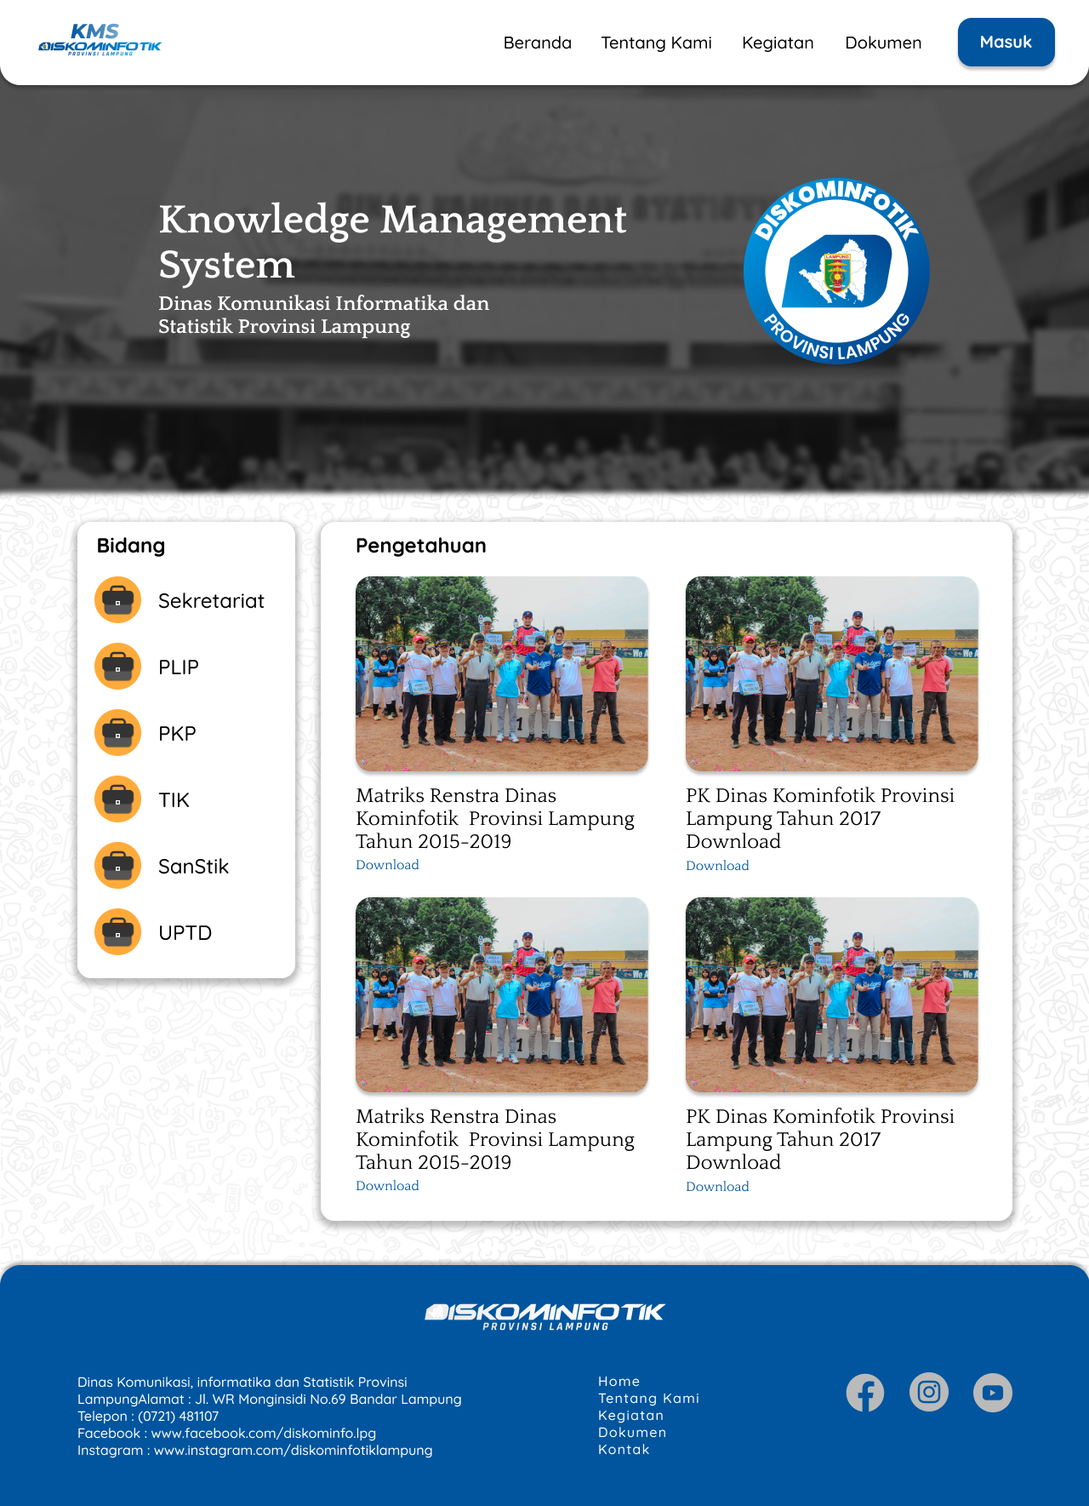
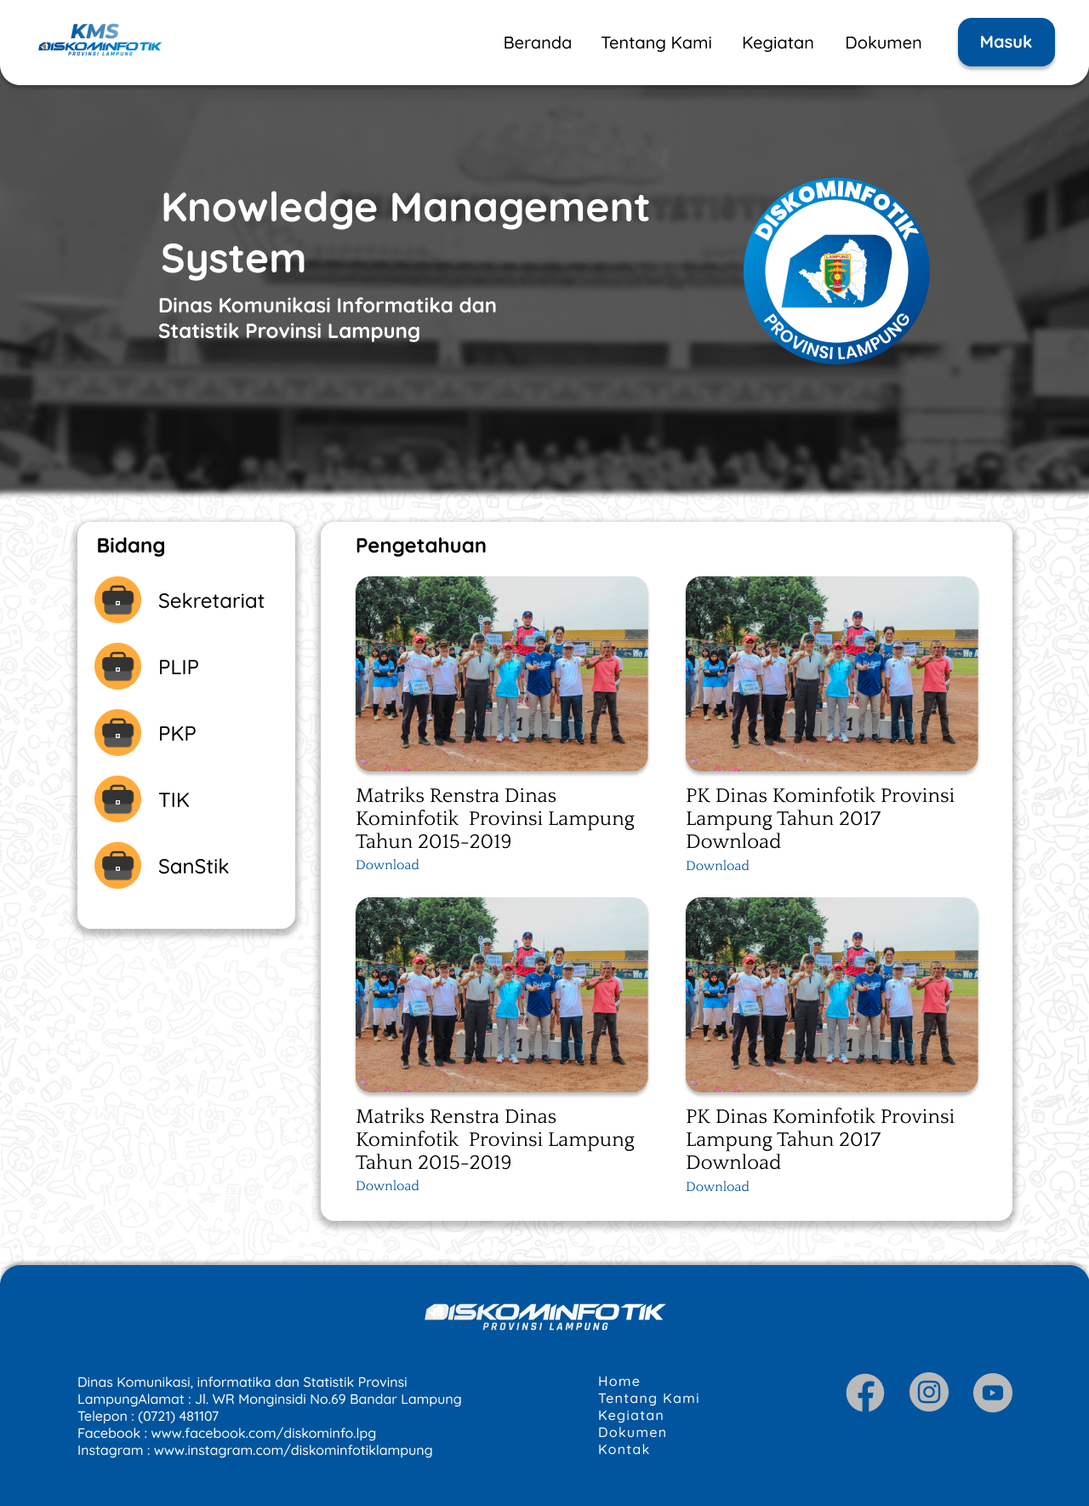
halaman tentang kami sementara (sesuai figma)

Changed region(s): [[0.125, 0.1244, 0.5938, 0.2487], [0.0625, 0.5907, 0.2812, 0.6529]]

diff --git a/resources/views/about.blade.php b/resources/views/about.blade.php
@@ -1,0 +1,170 @@
+<!DOCTYPE html>
+<html lang="id">
+<head>
+    <meta charset="utf-8">
+    <meta name="viewport" content="width=device-width, initial-scale=1">
+    <title>Tentang Kami - KMS Diskominfotik Lampung</title>
+    <link rel="preconnect" href="https://fonts.bunny.net">
+    <link href="https://fonts.bunny.net/css?family=figtree:400,600&display=swap" rel="stylesheet" />
+    @vite(['resources/css/app.css', 'resources/js/app.js'])
+</head>
+<body class="bg-[#f8fafc] font-figtree">
+
+    {{-- HEADER --}}
+    <header class="bg-white shadow-sm sticky top-0 z-20">
+        <div class="max-w-[1400px] mx-auto flex items-center justify-between px-6 py-3">
+            <div class="flex items-center gap-2">
+                <img src="{{ asset('assets/img/KMS_Diskominfotik.png') }}" alt="KMS DISKOMINFOTIK" class="h-7">
+            </div>
+            <nav class="flex gap-8">
+                <a href="{{ url('/') }}" class="text-black/90 text-sm hover:font-bold hover:text-blue-900 transition">Beranda</a>
+                <a href="{{ route('about') }}" class="text-blue-900 text-sm font-bold">Tentang Kami</a>
+                <a href="#" class="text-black/90 text-sm hover:font-bold hover:text-blue-900 transition">Kegiatan</a>
+                <a href="#" class="text-black/90 text-sm hover:font-bold hover:text-blue-900 transition">Dokumen</a>
+            </nav>
+            <a href="{{ route('login') }}"
+               class="bg-blue-900 text-white text-sm font-semibold px-6 py-2 rounded-xl shadow hover:bg-blue-700 transition">Masuk</a>
+        </div>
+    </header>
+
+    {{-- HERO SECTION --}}
+    <section class="relative min-h-[320px] flex items-center" style="background: url('{{ asset('assets/img/Background-line-landing-page.png') }}') center/cover no-repeat;">
+        <div class="absolute inset-0 bg-black/60"></div>
+        <div class="max-w-[900px] mx-auto w-full relative z-10 text-center flex flex-col items-center">
+            <h1 class="text-4xl md:text-5xl font-bold text-white drop-shadow mt-16 mb-3">Tentang Kami</h1>
+            <div class="bg-white/90 rounded-lg shadow-lg px-6 py-4 text-black text-base font-medium w-full max-w-3xl">
+                Dinas Komunikasi, Informatika dan Statistik Pemerintah Provinsi Lampung merupakan penyelenggara urusan pemerintahan dan mempunyai tugas di bidang Komunikasi dan Informatika, Statistik dan Persandian. Dinas Komunikasi, Informatika dan Statistik Pemerintah Provinsi Lampung dipimpin oleh seorang Kepala Dinas yang berkedudukan di bawah dan bertanggung jawab kepada Gubernur melalui Sekretaris Daerah.
+            </div>
+        </div>
+    </section>
+
+    {{-- VISI & MISI --}}
+    <section class="max-w-5xl mx-auto mt-12 flex flex-col md:flex-row gap-8 px-4">
+        <div class="md:w-2/5 flex items-center justify-center">
+            <img src="{{ asset('assets/img/visi_misi.png') }}"
+                 alt="Kantor Dinas Kominfotik"
+                 class="rounded-2xl shadow-lg w-[260px] md:w-[300px] h-auto object-contain" />
+        </div>
+        <div class="md:w-3/5 flex flex-col justify-center">
+            <h2 class="font-bold text-lg mb-1">Visi</h2>
+            <p class="mb-3 text-sm md:text-base">Terwujudnya Pusat Informasi Dan Komunikasi Untuk Menunjang Pembangunan Daerah Menuju Lampung Unggul Dan Berdaya Saing</p>
+            <h2 class="font-bold text-lg mb-1 mt-4">Misi</h2>
+            <ol class="list-decimal pl-5 space-y-1 text-sm md:text-base">
+                <li>Meningkatkan Daya Dukung Infrastruktur Teknologi Komunikasi dan Informasi untuk Memperluas Akses Masyarakat terhadap Informasi Pembangunan Daerah.</li>
+                <li>Meningkatkan Kompetensi Sumber Daya Manusia bidang Komunikasi dan Informatika secara Profesional.</li>
+                <li>Meningkatkan Kualitas Layanan Komunikasi dan Informasi kepada Masyarakat dalam rangka Mewujudkan Masyarakat Berbudaya Informasi</li>
+            </ol>
+        </div>
+    </section>
+
+    {{-- TUGAS & FUNGSI --}}
+    <section class="max-w-5xl mx-auto grid grid-cols-1 md:grid-cols-2 gap-8 my-12 px-4">
+        <div class="bg-white rounded-2xl shadow-lg p-6">
+            <h2 class="text-lg font-bold mb-2 text-[#254759]">Tugas</h2>
+            <p class="text-sm leading-relaxed">
+                Berdasarkan Peraturan Gubernur Nomor 59 Tahun 2021 tentang Susunan Organisasi, Tugas dan Fungsi Serta Takerja Perangkat Daerah, Dinas Komunikasi, Informatika dan Statistik mempunyai tugas membantu Gubernur melaksanakan Urusan Pemerintahan di bidang Komunikasi, Informatika, bidang Persandian dan bidang Statistik berdasarkan asas otonomi yang menjadi kewenangan, tugas dekonsentrasi dan tugas pembantuan serta tugas lain sesuai dengan kebijakan yang ditetapkan oleh Gubernur berdasarkan peraturan perundang-undangan.
+            </p>
+        </div>
+        <div class="bg-white rounded-2xl shadow-lg p-6">
+            <h2 class="text-lg font-bold mb-2 text-[#254759]">Fungsi</h2>
+            <p class="text-sm leading-relaxed">
+                Berdasarkan Peraturan Gubernur Nomor 59 Tahun 2021 tentang Susunan Organisasi, Tugas dan Fungsi Serta Takerja Perangkat Daerah, Dinas Komunikasi, Informatika dan Statistik mempunyai fungsi:
+                <br>a. perumusan kebijakan di bidang Komunikasi, Informatika, Persandian dan Statistik;
+                <br>b. pelaksanaan kebijakan di bidang Komunikasi, Informatika, Persandian dan Statistik;
+                <br>c. pelaksanaan evaluasi dan pelaporan di bidang Komunikasi, Informatika, Persandian dan Statistik;
+                <br>d. pelaksanaan administrasi di bidang Komunikasi, Informatika, Persandian dan Statistik; dan
+                <br>e. pelaksanaan fungsi lain yang diberikan oleh Gubernur.
+            </p>
+        </div>
+    </section>
+
+    {{-- BIDANG --}}
+    <section class="w-full bg-[#254759] bg-opacity-95 py-12 relative" style="background: url('{{ asset('assets/img/Background-line-landing-page.png') }}') center/cover no-repeat;">
+        <div class="max-w-6xl mx-auto text-center relative z-10">
+            <h2 class="font-bold text-xl text-white mb-8 tracking-wide">BIDANG</h2>
+            <div class="grid grid-cols-2 md:grid-cols-5 gap-6 justify-items-center">
+                <div class="flex flex-col items-center">
+                    <div class="bg-pink-500/90 rounded-full p-5 shadow mb-2">
+                        {{-- Icon Bullhorn --}}
+                        <svg class="w-8 h-8 text-white" fill="none" stroke="currentColor" stroke-width="2" viewBox="0 0 24 24"><path fill="white" d="M6.5 7.5V5a2 2 0 0 1 2-2h7a2 2 0 0 1 2 2v14a2 2 0 0 1-2 2h-7a2 2 0 0 1-2-2v-2.5"/><path stroke="white" d="M6.5 17.5V5a2 2 0 0 1 2-2h7a2 2 0 0 1 2 2v14a2 2 0 0 1-2 2h-7a2 2 0 0 1-2-2v-2.5"/></svg>
+                    </div>
+                    <p class="text-white text-xs font-semibold">Pengelolaan dan<br>Layanan Informasi Publik</p>
+                </div>
+                <div class="flex flex-col items-center">
+                    <div class="bg-orange-400 rounded-full p-5 shadow mb-2">
+                        {{-- Icon Shield --}}
+                        <svg class="w-8 h-8 text-white" fill="none" stroke="currentColor" stroke-width="2" viewBox="0 0 24 24"><path fill="white" d="M12 2l7 5v6.5c0 5.5-5 8.5-7 9-2-0.5-7-3.5-7-9V7l7-5z"/></svg>
+                    </div>
+                    <p class="text-white text-xs font-semibold">Persandian dan<br>Statistik</p>
+                </div>
+                <div class="flex flex-col items-center">
+                    <div class="bg-blue-500 rounded-full p-5 shadow mb-2">
+                        {{-- Icon Globe --}}
+                        <svg class="w-8 h-8 text-white" fill="none" stroke="currentColor" stroke-width="2" viewBox="0 0 24 24"><circle cx="12" cy="12" r="10" stroke="white" stroke-width="2"/><path stroke="white" d="M2 12h20"/><path stroke="white" d="M12 2a15.3 15.3 0 0 1 0 20"/><path stroke="white" d="M12 2a15.3 15.3 0 0 0 0 20"/></svg>
+                    </div>
+                    <p class="text-white text-xs font-semibold">Pengelolaan<br>Komunikasi Publik</p>
+                </div>
+                <div class="flex flex-col items-center">
+                    <div class="bg-red-400 rounded-full p-5 shadow mb-2">
+                        {{-- Icon Cloud --}}
+                        <svg class="w-8 h-8 text-white" fill="none" stroke="currentColor" stroke-width="2" viewBox="0 0 24 24"><path fill="white" d="M17 16a4 4 0 1 0-7.33-2.67A5 5 0 1 0 6 20h11a4 4 0 0 0 0-8h-1a4 4 0 0 0 1 8z"/></svg>
+                    </div>
+                    <p class="text-white text-xs font-semibold">Tata Kelola Pemerintahan<br>Berbasis Elektronik</p>
+                </div>
+                <div class="flex flex-col items-center">
+                    <div class="bg-green-500 rounded-full p-5 shadow mb-2">
+                        {{-- Icon Laptop Code --}}
+                        <svg class="w-8 h-8 text-white" fill="none" stroke="currentColor" stroke-width="2" viewBox="0 0 24 24"><rect x="2" y="6" width="20" height="14" rx="2" fill="white"/><path stroke="white" d="M8 12h8M8 16h8"/></svg>
+                    </div>
+                    <p class="text-white text-xs font-semibold">Teknologi Informasi<br>dan Komunikasi</p>
+                </div>
+            </div>
+        </div>
+    </section>
+
+    {{-- STRUKTUR ORGANISASI --}}
+    <section class="max-w-3xl mx-auto mt-12 mb-20 px-4">
+        <div class="bg-white rounded-2xl shadow-lg p-6 text-center">
+            <h2 class="font-bold text-lg mb-2 text-[#254759]">Struktur Organisasi</h2>
+            <ol class="list-decimal pl-6 text-left mb-4 text-sm">
+                <li>Berdasarkan Peraturan Gubernur Nomor 59 Tahun 2021 tentang Susunan Organisasi, Tugas dan Fungsi Serta Takerja Perangkat Daerah, Susunan Organisasi Dinas Komunikasi, Informatika dan Statistik, terdiri dari:
+                    <ul class="list-disc ml-4 mt-1">
+                        <li>a. Kepala Dinas;</li>
+                        <li>b. Sekretariat;</li>
+                        <li>c. Bidang Pengelolaan dan Layanan Informasi Publik.....</li>
+                    </ul>
+                </li>
+            </ol>
+            <a href="#" class="inline-block bg-blue-700 hover:bg-blue-800 text-white px-7 py-2 rounded-full mt-2 font-semibold shadow transition">Lihat</a>
+        </div>
+    </section>
+
+    {{-- FOOTER --}}
+    <footer class="bg-blue-900 text-white pt-8 pb-6 mt-8">
+        <div class="container mx-auto grid md:grid-cols-3 gap-8 px-6">
+            <div>
+                <img src="{{ asset('assets/img/logo_diskominfotik_lampung.png') }}" alt="Logo Diskominfo"
+                     class="h-8 mb-2">
+                <p class="text-xs font-semibold">Dinas Komunikasi, Informatika dan Statistik Provinsi Lampung</p>
+                <p class="text-xs">Jl. WR Monginsidi No.69 Bandar Lampung<br>Telepon: (0721) 481007<br>Facebook: /diskominfo.lpg<br>Instagram: /diskominfotiklampung</p>
+            </div>
+            <div>
+                <h4 class="font-bold mb-3">Menu</h4>
+                <ul class="space-y-1 text-sm">
+                    <li><a href="{{ url('/') }}" class="hover:underline">Home</a></li>
+                    <li><a href="{{ route('about') }}" class="hover:underline font-bold">Tentang Kami</a></li>
+                    <li><a href="#" class="hover:underline">Kegiatan</a></li>
+                    <li><a href="#" class="hover:underline">Dokumen</a></li>
+                    <li><a href="#" class="hover:underline">Kontak</a></li>
+                </ul>
+            </div>
+            <div class="flex items-center gap-4 mt-5 md:mt-0">
+                <a class="bg-white/20 rounded-full p-2 hover:bg-white/30 transition" href="#"><img src="{{ asset('img/instagram.svg') }}" alt="IG" class="h-7"></a>
+                <a class="bg-white/20 rounded-full p-2 hover:bg-white/30 transition" href="#"><img src="{{ asset('img/facebook.svg') }}" alt="FB" class="h-7"></a>
+                <a class="bg-white/20 rounded-full p-2 hover:bg-white/30 transition" href="#"><img src="{{ asset('img/youtube.svg') }}" alt="YT" class="h-7"></a>
+            </div>
+        </div>
+    </footer>
+
+</body>
+</html>

diff --git a/resources/views/welcome.blade.php b/resources/views/welcome.blade.php
@@ -1,5 +1,6 @@
 <!DOCTYPE html>
 <html lang="id">
+
 <head>
     <meta charset="utf-8">
     <meta name="viewport" content="width=device-width, initial-scale=1">
@@ -8,52 +9,72 @@
     <link href="https://fonts.bunny.net/css?family=figtree:400,600&display=swap" rel="stylesheet" />
     @vite(['resources/css/app.css', 'resources/js/app.js'])
 </head>
+
 <body class="bg-[#f8fafc] font-figtree">
 
     {{-- HEADER --}}
     <header class="bg-white shadow-sm sticky top-0 z-20">
-        <div class="container mx-auto flex items-center justify-between py-3 px-6">
+        <div class="max-w-[1400px] mx-auto flex items-center justify-between px-6 py-3">
             <div class="flex items-center gap-2">
-                <img src="{{ asset('assets/img/KMS_Diskominfotik.png') }}" alt="Logo Diskominfo" class="h-8">
-                <span class="font-bold text-sm text-blue-900 ml-1"></span>
+                <img src="{{ asset('assets/img/KMS_Diskominfotik.png') }}" alt="KMS DISKOMINFOTIK" class="h-7">
             </div>
-            <nav class="flex gap-7">
-                <a href="#" class="hover:font-bold hover:text-blue-800 transition">Beranda</a>
-                <a href="#" class="hover:font-bold hover:text-blue-800 transition">Tentang Kami</a>
-                <a href="#" class="hover:font-bold hover:text-blue-800 transition">Kegiatan</a>
-                <a href="#" class="hover:font-bold hover:text-blue-800 transition">Dokumen</a>
+            <nav class="flex gap-8">
+                <a href="#" class="text-black/90 text-sm hover:font-bold hover:text-blue-900 transition">Beranda</a>
+                <a href="{{ route('about') }}" class="text-black/90 text-sm hover:font-bold hover:text-blue-900 transition">Tentang
+                    Kami</a>
+                <a href="#" class="text-black/90 text-sm hover:font-bold hover:text-blue-900 transition">Kegiatan</a>
+                <a href="#" class="text-black/90 text-sm hover:font-bold hover:text-blue-900 transition">Dokumen</a>
             </nav>
-            <div>
-                <a href="{{ route('login') }}" class="bg-blue-900 text-white px-5 py-2 rounded-xl shadow hover:bg-blue-700 transition">Masuk</a>
-            </div>
+            <a href="{{ route('login') }}"
+                class="bg-blue-900 text-white text-sm font-semibold px-6 py-2 rounded-xl shadow hover:bg-blue-700 transition">Masuk</a>
         </div>
     </header>
 
     {{-- HERO --}}
-    <section class="relative bg-gray-900 h-[340px] flex items-center justify-center" style="background: url('{{ asset('assets/img/Background-line-landing-page.png') }}') center/cover no-repeat;">
-        <div class="absolute inset-0 bg-black bg-opacity-60"></div>
-        <div class="container relative z-10 flex items-center justify-between px-6">
+    <section class="relative min-h-[320px] md:min-h-[360px] flex items-center"
+        style="background: url('{{ asset('assets/img/Background-line-landing-page.png') }}') center/cover no-repeat;">
+        <div class="absolute inset-0 bg-black/40"></div>
+        <div class="max-w-[1400px] mx-auto w-full flex justify-between items-center relative z-10 px-6 py-10 md:py-16">
             <div>
-                <h1 class="text-white text-4xl font-bold mb-2 leading-tight drop-shadow">Knowledge Management System</h1>
-                <p class="text-white text-lg font-semibold drop-shadow">Dinas Komunikasi Informatika dan Statistik Provinsi Lampung</p>
+                <h1 class="text-white text-3xl md:text-4xl font-bold mb-2 drop-shadow leading-snug">
+                    Knowledge Management<br>System
+                </h1>
+                <p class="text-white text-base md:text-lg font-semibold drop-shadow">
+                    Dinas Komunikasi Informatika dan Statistik Provinsi Lampung
+                </p>
             </div>
-            <img src="{{ asset('assets/img/logo_diskominfotik_lampung.png') }}" alt="Logo Diskominfo" class="h-32 drop-shadow-lg hidden md:block">
+            <img src="{{ asset('assets/img/logo_diskominfotik_lampung.png') }}" alt="Diskominfotik Lampung"
+                class="h-28 md:h-36 drop-shadow-xl hidden md:block">
         </div>
     </section>
 
     {{-- MAIN CONTENT --}}
-    <main class="container mx-auto flex flex-col lg:flex-row gap-6 mt-[-80px] pb-10 z-20 relative">
+    <main class="max-w-[1200px] mx-auto flex flex-col lg:flex-row gap-8 mt-[-70px] pb-10 z-20 relative">
 
         {{-- Sidebar Bidang --}}
-        <aside class="bg-white shadow-lg rounded-2xl p-6 w-full lg:w-64 mb-6 lg:mb-0">
-            <h3 class="font-bold text-lg mb-5">Bidang</h3>
-            <ul class="flex flex-col gap-3">
-                @foreach (['Sekretariat','PLIP','PKP','TIK','SanStik'] as $bidang)
-                <li class="flex items-center gap-3">
-                    <span class="bg-orange-400 text-white rounded-full p-2">
-                        <svg class="w-6 h-6" fill="none" stroke="currentColor"><!-- icon here --></svg>
+        <aside
+            class="bg-white shadow-lg rounded-2xl px-8 py-8 w-full max-w-[250px] mx-auto lg:mx-0 mb-8 lg:mb-0 flex flex-col items-center">
+            <h3 class="font-bold text-lg mb-6 text-left w-full">Bidang</h3>
+            <ul class="flex flex-col gap-5 w-full">
+                @php
+                $bidangs = [
+                'Sekretariat',
+                'PLIP',
+                'PKP',
+                'TIK',
+                'SanStik'
+                ];
+                @endphp
+                @foreach ($bidangs as $bidang)
+                <li class="flex items-center gap-4">
+                    <span class="bg-[#F49A24] flex items-center justify-center rounded-full w-10 h-10 shadow">
+                        {{-- Icon koper/briefcase --}}
+                        <svg xmlns="http://www.w3.org/2000/svg" fill="white" viewBox="0 0 20 20" class="w-6 h-6">
+                            <path
+                                d="M6 7V6a4 4 0 1 1 8 0v1h2.25A1.75 1.75 0 0 1 18 8.75v7.5A1.75 1.75 0 0 1 16.25 18H3.75A1.75 1.75 0 0 1 2 16.25v-7.5A1.75 1.75 0 0 1 3.75 7H6Zm2-1a2 2 0 1 1 4 0v1H8V6Z" />
+                        </svg>
                     </span>
-                    <span class="font-medium">{{ $bidang }}</span>
+                    <span class="font-medium text-base">{{ $bidang }}</span>
                 </li>
                 @endforeach
             </ul>
@@ -61,17 +82,42 @@
 
         {{-- Grid Pengetahuan --}}
         <section class="flex-1">
-            <h2 class="font-bold text-xl mb-4">Pengetahuan</h2>
-            <div class="grid grid-cols-1 md:grid-cols-2 gap-6">
-                @for ($i = 0; $i < 4; $i++)
-                <div class="bg-white shadow-lg rounded-2xl overflow-hidden">
-                    <img src="{{ asset('img/foto-kegiatan.jpg') }}" class="w-full h-44 object-cover" alt="Foto Pengetahuan">
-                    <div class="p-4">
-                        <h3 class="font-semibold text-base mb-1 leading-tight">Matriks Renstra Dinas Kominfotik Provinsi Lampung Tahun 2015-2019</h3>
-                        <a href="#" class="text-blue-700 text-sm underline hover:text-blue-900">Download</a>
+            <h2 class="font-bold text-xl mb-5">Pengetahuan</h2>
+            <div class="grid grid-cols-1 md:grid-cols-2 gap-8">
+                @php
+                $pengetahuan = [
+                [
+                'img' => 'assets/img/pengetahuan_1.png',
+                'title' => 'Matriks Renstra Dinas Kominfotik Provinsi Lampung Tahun 2015-2019',
+                'link' => '#'
+                ],
+                [
+                'img' => 'assets/img/pengetahuan_2.png',
+                'title' => 'PK Dinas Kominfotik Provinsi Lampung Tahun 2017 Download',
+                'link' => '#'
+                ],
+                [
+                'img' => 'assets/img/pengetahuan_3.png',
+                'title' => 'Matriks Renstra Dinas Kominfotik Provinsi Lampung Tahun 2015-2019',
+                'link' => '#'
+                ],
+                [
+                'img' => 'assets/img/pengetahuan_4.png',
+                'title' => 'PK Dinas Kominfotik Provinsi Lampung Tahun 2017 Download',
+                'link' => '#'
+                ]
+                ];
+                @endphp
+                @foreach ($pengetahuan as $item)
+                <div class="bg-white shadow-lg rounded-2xl overflow-hidden flex flex-col">
+                    <img src="{{ asset($item['img']) }}" class="w-full h-48 object-cover" alt="Foto Pengetahuan">
+                    <div class="p-5 flex flex-col gap-2">
+                        <h3 class="font-semibold text-base leading-tight">{{ $item['title'] }}</h3>
+                        <a href="{{ $item['link'] }}"
+                            class="text-blue-700 text-sm underline hover:text-blue-900">Download</a>
                     </div>
                 </div>
-                @endfor
+                @endforeach
             </div>
         </section>
     </main>
@@ -80,9 +126,11 @@
     <footer class="bg-blue-900 text-white pt-8 pb-6 mt-8">
         <div class="container mx-auto grid md:grid-cols-3 gap-8 px-6">
             <div>
-                <img src="{{ asset('img/logo-diskominfo.png') }}" alt="Logo Diskominfo" class="h-8 mb-2">
+                <img src="{{ asset('assets/img/logo_diskominfotik_lampung.png') }}" alt="Logo Diskominfo"
+                    class="h-8 mb-2">
                 <p class="text-xs font-semibold">Dinas Komunikasi, Informatika dan Statistik Provinsi Lampung</p>
-                <p class="text-xs">Jl. WR Monginsidi No.69 Bandar Lampung<br>Telepon: (0721) 481007<br>Facebook: /diskominfo.lpg<br>Instagram: /diskominfotiklampung</p>
+                <p class="text-xs">Jl. WR Monginsidi No.69 Bandar Lampung<br>Telepon: (0721) 481007<br>Facebook:
+                    /diskominfo.lpg<br>Instagram: /diskominfotiklampung</p>
             </div>
             <div>
                 <h4 class="font-bold mb-3">Menu</h4>
@@ -95,12 +143,16 @@
                 </ul>
             </div>
             <div class="flex items-center gap-4 mt-5 md:mt-0">
-                <a class="bg-white/20 rounded-full p-2 hover:bg-white/30 transition" href="#"><img src="{{ asset('img/instagram.svg') }}" alt="IG" class="h-7"></a>
-                <a class="bg-white/20 rounded-full p-2 hover:bg-white/30 transition" href="#"><img src="{{ asset('img/facebook.svg') }}" alt="FB" class="h-7"></a>
-                <a class="bg-white/20 rounded-full p-2 hover:bg-white/30 transition" href="#"><img src="{{ asset('img/youtube.svg') }}" alt="YT" class="h-7"></a>
+                <a class="bg-white/20 rounded-full p-2 hover:bg-white/30 transition" href="#"><img
+                        src="{{ asset('img/instagram.svg') }}" alt="IG" class="h-7"></a>
+                <a class="bg-white/20 rounded-full p-2 hover:bg-white/30 transition" href="#"><img
+                        src="{{ asset('img/facebook.svg') }}" alt="FB" class="h-7"></a>
+                <a class="bg-white/20 rounded-full p-2 hover:bg-white/30 transition" href="#"><img
+                        src="{{ asset('img/youtube.svg') }}" alt="YT" class="h-7"></a>
             </div>
         </div>
     </footer>
 
 </body>
+
 </html>

diff --git a/routes/web.php b/routes/web.php
@@ -56,6 +56,10 @@ Route::get('/', function () {
     return view('welcome');
 });
 
+Route::get('/about', function () {
+    return view('about');
+})->name('about');
+
 Route::get('/dashboard', function () {
     return view('dashboard');
 })->middleware(['auth', 'verified'])->name('dashboard');
